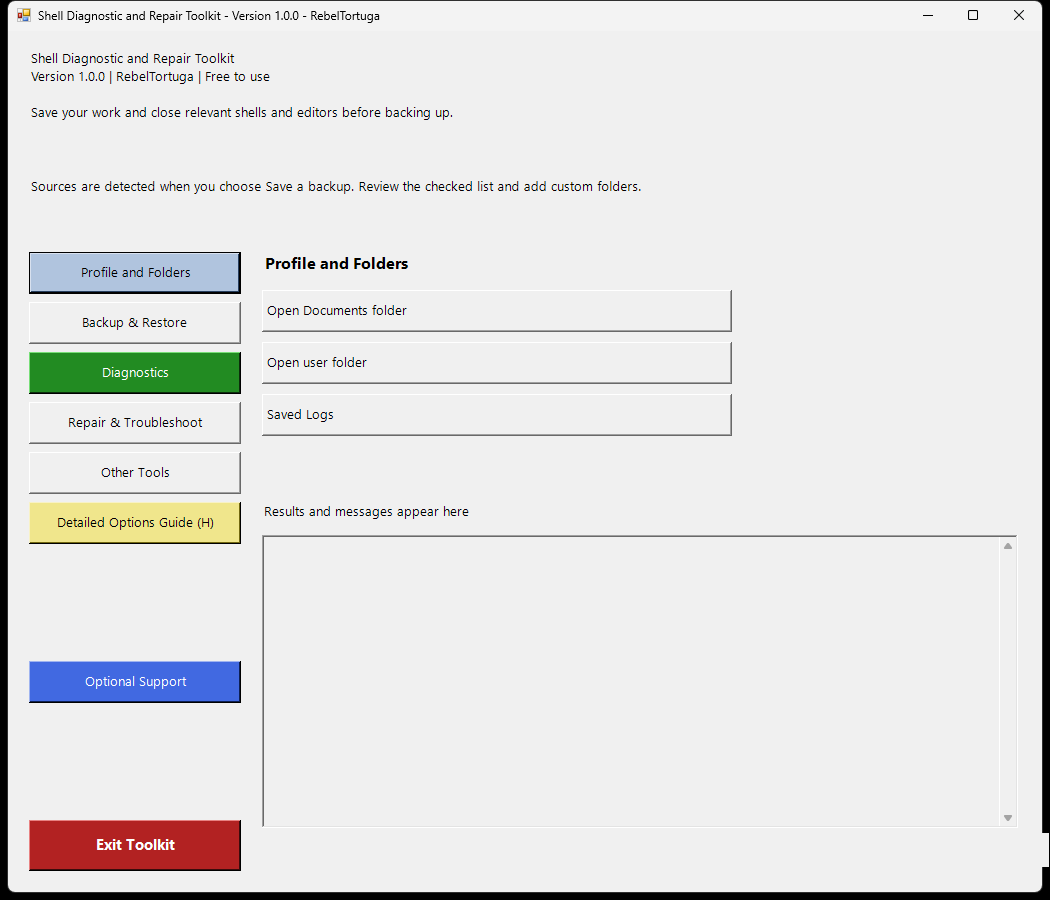
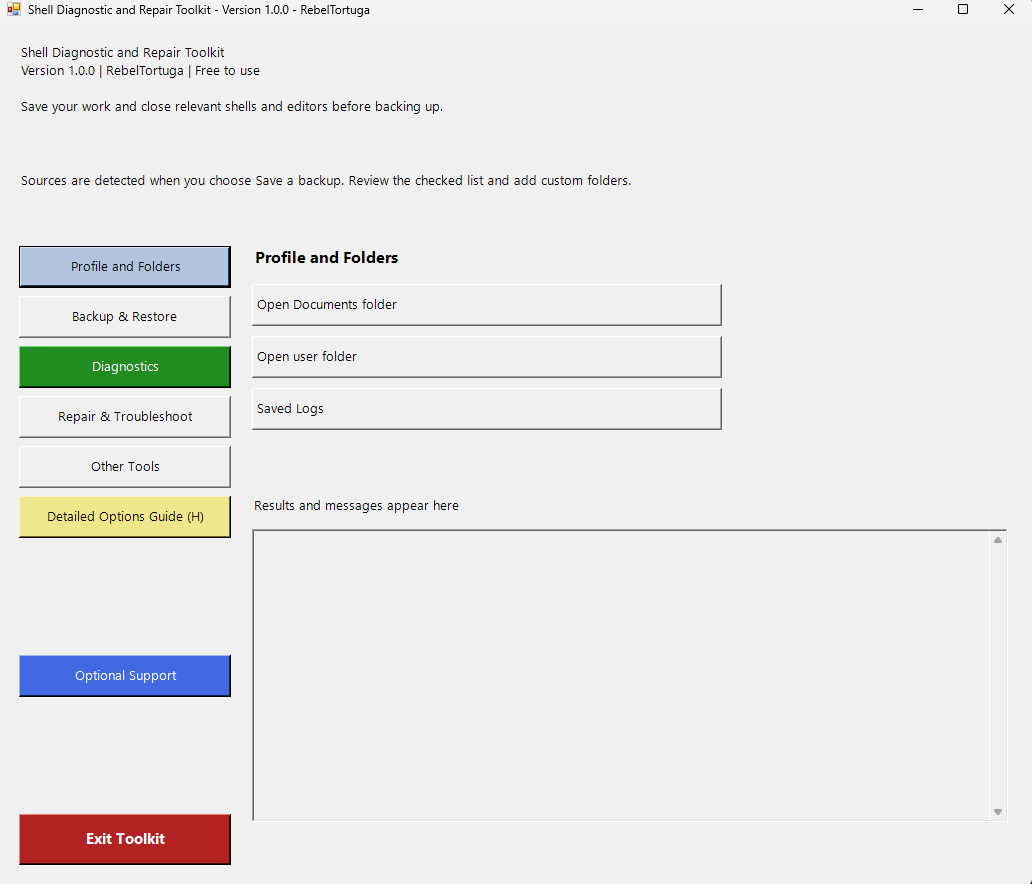
Update Shell toolkit screenshot (#1)
Publish the verified PSD-derived screenshot and matching README description while preserving assets/screenshot.png.

Changed region(s): [[0.0, 0.0, 1.0, 1.0], [0.8992, 0.0, 0.9302, 0.0305], [0.6822, 0.336, 0.7132, 0.3665]]

diff --git a/README.md b/README.md
@@ -20,7 +20,7 @@ and results below the actions.
 
 ## Screenshot
 
-![Shell Diagnostic and Repair Toolkit main window, with username and local path redacted](assets/screenshot.png)
+![Shell Diagnostic and Repair Toolkit main window with folder controls, navigation, and results panel](assets/screenshot.png)
 
 ## Start Here
 
